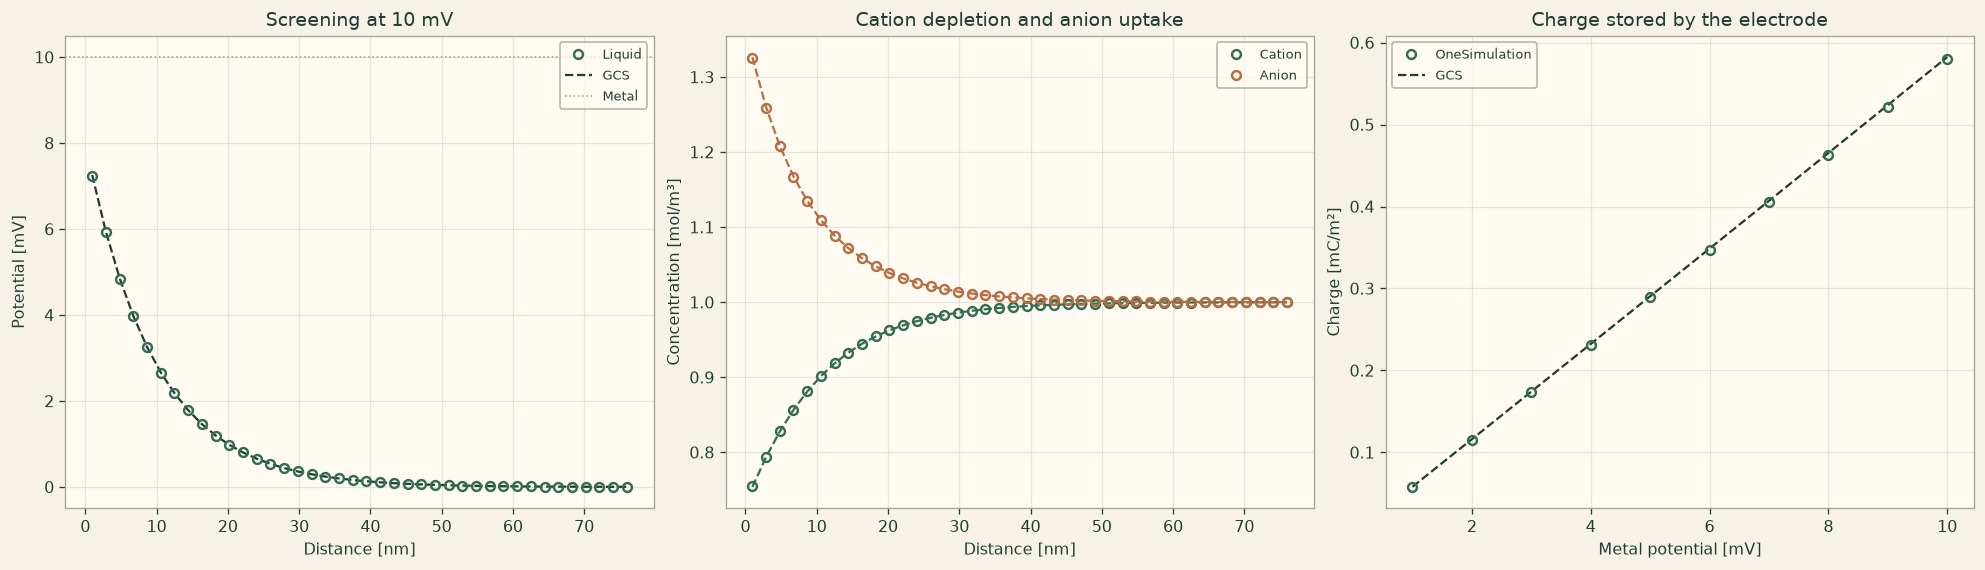
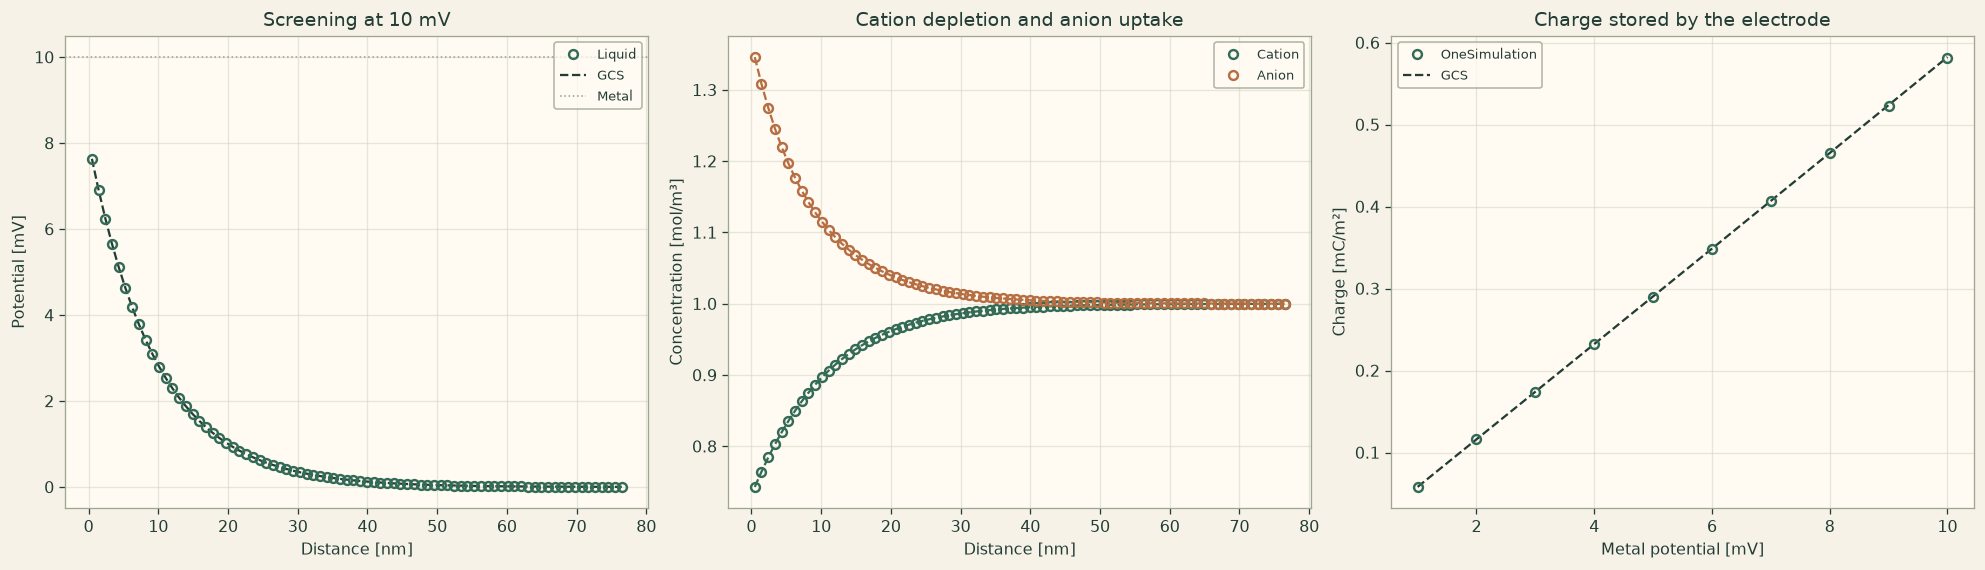
Publish the refined blocking-electrolyte comparison

diff --git a/examples/notebooks/diffuse_double_layer_stern.html b/examples/notebooks/diffuse_double_layer_stern.html
@@ -22,7 +22,7 @@
 <div class="layout">
 <details class="menu"><summary>Menu</summary><nav class="side" aria-label="Documentation"><a class="" href="../../index.html">Overview</a><a class="" href="../../quickstart.html">Quickstart</a><p class="group">Examples</p><a class="" href="../../examples/index.html">Example library</a><a class="" href="../../examples/method-swap.html">One model, five discretizations</a><a class="" href="../../examples/cantilever.html">A 3D cantilever</a><a class="" href="../../examples/custom-equation.html">Your own equation</a><p class="group">Guide</p><p class="part">Start here</p><a class="" href="../../guide/how-to-use-this-guide.html"><span class="num"></span> How to use this guide</a><p class="part">Part I · From model to notebook</p><a class="" href="../../guide/1-set-up-the-notebook.html"><span class="num">1</span> Set up the notebook</a><a class="" href="../../guide/2-transient-radiation-and-vibration.html"><span class="num">2</span> Transient radiation and vibration</a><a class="" href="../../guide/3-three-spatial-studies.html"><span class="num">3</span> Three spatial studies</a><a class="" href="../../guide/4-read-visualize-and-export-results.html"><span class="num">4</span> Read, visualize and export results</a><p class="part">Part II · Physics model selection</p><a class="" href="../../guide/5-build-a-first-case-in-each-physics-package/index.html"><span class="num">5</span> Build a first case in each physics package</a><a class="" href="../../guide/6-worked-physics-and-service-recipes/index.html"><span class="num">6</span> Worked physics and service recipes</a><p class="part">Part III · Select and combine numerical methods</p><a class="" href="../../guide/7-numerical-configuration-and-spatial-operators.html"><span class="num">7</span> Numerical configuration and spatial operators</a><a class="" href="../../guide/8-solvers-time-integration-and-coupled-fields.html"><span class="num">8</span> Solvers, time integration and coupled fields</a><a class="" href="../../guide/9-worked-numerical-comparisons/index.html"><span class="num">9</span> Worked numerical comparisons</a><a class="" href="../../guide/10-executable-numerical-recipes/index.html"><span class="num">10</span> Executable numerical recipes</a><a class="" href="../../guide/11-define-and-solve-your-own-equation.html"><span class="num">11</span> Define and solve your own equation</a><a class="" href="../../guide/12-diagnose-a-notebook-result.html"><span class="num">12</span> Diagnose a notebook result</a><a class="" href="../../guide/13-coverage-and-navigation-by-symbol/index.html"><span class="num">13</span> Coverage and navigation by symbol</a><p class="part">API reference</p><a class="" href="../../reference/a-physics-api-reference/index.html"><span class="num">A</span> Physics API reference</a><a class="" href="../../reference/b-numerical-api-reference/index.html"><span class="num">B</span> Numerical API reference</a><a class="" href="../../reference/c-exposed-operator-and-service-namespaces/index.html"><span class="num">C</span> Exposed operator and service namespaces</a><p class="group">Teaching</p><a class="" href="../../teaching/index.html">For instructors</a><a class="" href="../../teaching/course.html">A 14-week lab course</a><a class="" href="../../teaching/exercises.html">Exercise sheets</a><p class="group">Trust and terms</p><a class="" href="../../verification.html">Verification</a><a class="" href="../../plans.html">Plans and licence</a></nav></details>
 <div class="side-wrap"><nav class="side" aria-label="Documentation"><a class="" href="../../index.html">Overview</a><a class="" href="../../quickstart.html">Quickstart</a><p class="group">Examples</p><a class="" href="../../examples/index.html">Example library</a><a class="" href="../../examples/method-swap.html">One model, five discretizations</a><a class="" href="../../examples/cantilever.html">A 3D cantilever</a><a class="" href="../../examples/custom-equation.html">Your own equation</a><p class="group">Guide</p><p class="part">Start here</p><a class="" href="../../guide/how-to-use-this-guide.html"><span class="num"></span> How to use this guide</a><p class="part">Part I · From model to notebook</p><a class="" href="../../guide/1-set-up-the-notebook.html"><span class="num">1</span> Set up the notebook</a><a class="" href="../../guide/2-transient-radiation-and-vibration.html"><span class="num">2</span> Transient radiation and vibration</a><a class="" href="../../guide/3-three-spatial-studies.html"><span class="num">3</span> Three spatial studies</a><a class="" href="../../guide/4-read-visualize-and-export-results.html"><span class="num">4</span> Read, visualize and export results</a><p class="part">Part II · Physics model selection</p><a class="" href="../../guide/5-build-a-first-case-in-each-physics-package/index.html"><span class="num">5</span> Build a first case in each physics package</a><a class="" href="../../guide/6-worked-physics-and-service-recipes/index.html"><span class="num">6</span> Worked physics and service recipes</a><p class="part">Part III · Select and combine numerical methods</p><a class="" href="../../guide/7-numerical-configuration-and-spatial-operators.html"><span class="num">7</span> Numerical configuration and spatial operators</a><a class="" href="../../guide/8-solvers-time-integration-and-coupled-fields.html"><span class="num">8</span> Solvers, time integration and coupled fields</a><a class="" href="../../guide/9-worked-numerical-comparisons/index.html"><span class="num">9</span> Worked numerical comparisons</a><a class="" href="../../guide/10-executable-numerical-recipes/index.html"><span class="num">10</span> Executable numerical recipes</a><a class="" href="../../guide/11-define-and-solve-your-own-equation.html"><span class="num">11</span> Define and solve your own equation</a><a class="" href="../../guide/12-diagnose-a-notebook-result.html"><span class="num">12</span> Diagnose a notebook result</a><a class="" href="../../guide/13-coverage-and-navigation-by-symbol/index.html"><span class="num">13</span> Coverage and navigation by symbol</a><p class="part">API reference</p><a class="" href="../../reference/a-physics-api-reference/index.html"><span class="num">A</span> Physics API reference</a><a class="" href="../../reference/b-numerical-api-reference/index.html"><span class="num">B</span> Numerical API reference</a><a class="" href="../../reference/c-exposed-operator-and-service-namespaces/index.html"><span class="num">C</span> Exposed operator and service namespaces</a><p class="group">Teaching</p><a class="" href="../../teaching/index.html">For instructors</a><a class="" href="../../teaching/course.html">A 14-week lab course</a><a class="" href="../../teaching/exercises.html">Exercise sheets</a><p class="group">Trust and terms</p><a class="" href="../../verification.html">Verification</a><a class="" href="../../plans.html">Plans and licence</a></nav></div>
-<main id="content"><p class="crumbs"><a href="../../index.html">Docs</a> › <a href="../../examples/index.html">Examples</a> › Charge stored by a blocking electrode</p><p class="eyebrow">Electrochemistry · 1D</p><h1>Charge stored by a blocking electrode</h1><p class="lead">A charged metal surface attracts anions from a dilute electrolyte. Follow the nanometre-scale concentration profiles and the surface charge as the bias increases from 1 to 10 mV.</p><div class="chips"><span>Poisson–Nernst–Planck</span><span>Compact and diffuse layers</span><span>Voltage sweep</span><span>Gouy–Chapman–Stern check</span></div><p class="note"><strong>Run locally with OneSimulation.</strong> The example downloads are free. Running them requires an activated runtime. Runtime Alpha 0.2.1a8 · CPython 3.13 on macOS (Apple Silicon), Ubuntu 22.04 (x86-64), and Windows x64. <a href="../../quickstart.html#need">Installation and activation</a> · <a href="../../plans.html">View pilot plans</a>. <a href="../../verification.html#scope">Scope of the reference checks</a>.</p><div class="button-row"><a class="button" href="../../notebooks/diffuse_double_layer_stern.ipynb" download>Download the notebook (.ipynb)</a><a class="button light" href="../../notebooks/diffuse_double_layer_stern.py" download>Download the script (.py)</a></div><figure><a href="../../figures/library/diffuse_double_layer_stern.png" aria-label="Open result plot for Charge stored by a blocking electrode at full size" style="display:inline-block;max-width:100%;cursor:zoom-in"><img loading="lazy" src="../../figures/library/diffuse_double_layer_stern.png" alt="Charge stored by a blocking electrode"></a><figcaption>Charge stored by a blocking electrode. Run the notebook to produce its own figures.</figcaption></figure><h2 id="what">What it computes</h2><p>OneSimulation evolves the two ion species on a line with Scharfetter–Gummel finite volumes and a compact Stern layer at each blocking electrode. Opposite metal potentials set the grounded bulk plane at the midpoint; an inventory adjustment sets its salt concentration.</p><h2 id="checks">What it checks</h2><p>Across ten applied voltages the surface charge differs from Gouy–Chapman–Stern theory by at most 0.41 %. At 10 mV the model stores 0.5799 mC/m². The midpoint concentration is within 0.000003 mol/m³ of the 1 mol/m³ bulk target.</p><h2 id="notebook">The notebook</h2><p class="muted">The complete notebook, cell by cell. Run it to produce the figures and the comparison printout.</p><div class="notebook"><div class="nb-md"><p>A positively biased metal repels cations and attracts anions. How much charge accumulates when its potential rises from 1 to 10 mV? The one-dimensional Poisson–Nernst–Planck model includes diffusion, electrical migration and a charge-free compact layer at the electrode. Both ions are blocked at the metal.</p>
+<main id="content"><p class="crumbs"><a href="../../index.html">Docs</a> › <a href="../../examples/index.html">Examples</a> › Charge stored by a blocking electrode</p><p class="eyebrow">Electrochemistry · 1D</p><h1>Charge stored by a blocking electrode</h1><p class="lead">A charged metal surface attracts anions from a dilute electrolyte. Follow the nanometre-scale concentration profiles and the surface charge as the bias increases from 1 to 10 mV.</p><div class="chips"><span>Poisson–Nernst–Planck</span><span>Compact and diffuse layers</span><span>Voltage sweep</span><span>Gouy–Chapman–Stern check</span></div><p class="note"><strong>Run locally with OneSimulation.</strong> The example downloads are free. Running them requires an activated runtime. Runtime Alpha 0.2.1a8 · CPython 3.13 on macOS (Apple Silicon), Ubuntu 22.04 (x86-64), and Windows x64. <a href="../../quickstart.html#need">Installation and activation</a> · <a href="../../plans.html">View pilot plans</a>. <a href="../../verification.html#scope">Scope of the reference checks</a>.</p><div class="button-row"><a class="button" href="../../notebooks/diffuse_double_layer_stern.ipynb" download>Download the notebook (.ipynb)</a><a class="button light" href="../../notebooks/diffuse_double_layer_stern.py" download>Download the script (.py)</a></div><figure><a href="../../figures/library/diffuse_double_layer_stern.png" aria-label="Open result plot for Charge stored by a blocking electrode at full size" style="display:inline-block;max-width:100%;cursor:zoom-in"><img loading="lazy" src="../../figures/library/diffuse_double_layer_stern.png" alt="Charge stored by a blocking electrode"></a><figcaption>Charge stored by a blocking electrode. Run the notebook to produce its own figures.</figcaption></figure><h2 id="what">What it computes</h2><p>OneSimulation evolves the two ion species on a line with Scharfetter–Gummel finite volumes and a compact Stern layer at each blocking electrode. Opposite metal potentials set the grounded bulk plane at the midpoint; an inventory adjustment sets its salt concentration.</p><h2 id="checks">What it checks</h2><p>Refining from 80 to 160 finite volumes changes the 10 mV charge from 0.57993 to 0.58172 mC/m². Over ten biases the fine-grid wall charge agrees with Gouy–Chapman–Stern theory within 0.11 %. The midpoint salt concentration stays within 0.000003 mol/m³ of the bulk target.</p><h2 id="notebook">The notebook</h2><p class="muted">The complete notebook, cell by cell. Run it to produce the figures and the comparison printout.</p><div class="notebook"><div class="nb-md"><p>A positively biased metal repels cations and attracts anions. How much charge accumulates when its potential rises from 1 to 10 mV? The one-dimensional Poisson–Nernst–Planck model includes diffusion, electrical migration and a charge-free compact layer at the electrode. Both ions are blocked at the metal.</p>
 <p>The solvent is water at 25 °C. The bulk contains 1 mol/m³ of each monovalent ion (1 mM). The compact layer is 0.3 nm thick, with a relative permittivity of 10. Its potential drop is <span class="math">\(\sigma/C_S\)</span>, where <span class="math">\(C_S=\epsilon_S/d_S\)</span>.</p></div><div class="nb-code"><pre class="code" data-lang="python"><code><span class="kn">import</span><span class="w"> </span><span class="nn">numpy</span><span class="w"> </span><span class="k">as</span><span class="w"> </span><span class="nn">np</span>
 <span class="kn">from</span><span class="w"> </span><span class="nn">onesim.cad.d1</span><span class="w"> </span><span class="kn">import</span> <span class="n">Line</span>
 <span class="kn">from</span><span class="w"> </span><span class="nn">onesim.meshing</span><span class="w"> </span><span class="kn">import</span> <span class="n">cartesian</span>
@@ -49,14 +49,13 @@
 <span class="n">thermal</span> <span class="o">=</span> <span class="n">gas_constant</span> <span class="o">*</span> <span class="n">temperature</span> <span class="o">/</span> <span class="n">faraday</span>
 <span class="n">debye</span> <span class="o">=</span> <span class="n">np</span><span class="o">.</span><span class="n">sqrt</span><span class="p">(</span><span class="n">epsilon</span> <span class="o">*</span> <span class="n">thermal</span> <span class="o">/</span> <span class="p">(</span><span class="mi">2</span> <span class="o">*</span> <span class="n">faraday</span> <span class="o">*</span> <span class="n">bulk</span><span class="p">))</span>
 <span class="n">stern</span> <span class="o">=</span> <span class="n">epsilon</span> <span class="o">/</span> <span class="n">capacitance</span>
-<span class="n">half_length</span><span class="p">,</span> <span class="n">cells</span> <span class="o">=</span> <span class="mi">8</span> <span class="o">*</span> <span class="n">debye</span><span class="p">,</span> <span class="mi">80</span>
+<span class="n">half_length</span> <span class="o">=</span> <span class="mi">8</span> <span class="o">*</span> <span class="n">debye</span>
 <span class="n">line</span> <span class="o">=</span> <span class="n">Line</span><span class="p">(</span><span class="n">start</span><span class="o">=</span><span class="p">(</span><span class="mi">0</span><span class="p">,</span> <span class="mi">0</span><span class="p">,</span> <span class="mi">0</span><span class="p">),</span> <span class="n">end</span><span class="o">=</span><span class="p">(</span><span class="mi">2</span> <span class="o">*</span> <span class="n">half_length</span><span class="p">,</span> <span class="mi">0</span><span class="p">,</span> <span class="mi">0</span><span class="p">))</span>
-<span class="n">mesh</span> <span class="o">=</span> <span class="n">cartesian</span><span class="p">(</span><span class="n">shape</span><span class="o">=</span><span class="p">(</span><span class="n">cells</span><span class="p">,),</span> <span class="n">extents</span><span class="o">=</span><span class="p">(</span><span class="mi">2</span> <span class="o">*</span> <span class="n">half_length</span><span class="p">,),</span> <span class="n">geometry</span><span class="o">=</span><span class="n">line</span><span class="p">,</span> <span class="n">periodic</span><span class="o">=</span><span class="kc">False</span><span class="p">)</span><span class="o">.</span><span class="n">build</span><span class="p">()</span>
 <span class="n">numerics</span> <span class="o">=</span> <span class="n">Numerics</span><span class="p">(</span>
     <span class="n">spatial</span><span class="o">=</span><span class="n">ScharfetterGummelFiniteVolume</span><span class="p">(),</span>
     <span class="n">time_integrator</span><span class="o">=</span><span class="n">BDF</span><span class="p">(</span><span class="n">order</span><span class="o">=</span><span class="mi">2</span><span class="p">,</span> <span class="n">startup</span><span class="o">=</span><span class="n">BackwardEuler</span><span class="p">()),</span>
     <span class="n">nonlinear_solver</span><span class="o">=</span><span class="n">Newton</span><span class="p">(</span>
-        <span class="n">linear_solver</span><span class="o">=</span><span class="n">GMRES</span><span class="p">(</span><span class="n">relative_tolerance</span><span class="o">=</span><span class="mf">1e-7</span><span class="p">,</span> <span class="n">restart</span><span class="o">=</span><span class="mi">120</span><span class="p">,</span> <span class="n">maximum_iterations</span><span class="o">=</span><span class="mi">400</span><span class="p">),</span>
+        <span class="n">linear_solver</span><span class="o">=</span><span class="n">GMRES</span><span class="p">(</span><span class="n">relative_tolerance</span><span class="o">=</span><span class="mf">1e-7</span><span class="p">,</span> <span class="n">restart</span><span class="o">=</span><span class="mi">220</span><span class="p">,</span> <span class="n">maximum_iterations</span><span class="o">=</span><span class="mi">650</span><span class="p">),</span>
         <span class="n">absolute_tolerance</span><span class="o">=</span><span class="mf">1e-8</span><span class="p">,</span>
     <span class="p">),</span>
 <span class="p">)</span></code></pre></div><div class="nb-md"><h4>Establish the bulk and sweep the metal potential</h4>
@@ -64,9 +63,8 @@
 <p>Each run starts from a uniform electrolyte. The zero-flux blocking walls conserve each ion separately. The compact-layer Robin condition uses the effective thickness <span class="math">\(\epsilon/C_S\)</span> in the solvent permittivity convention.</p></div><div class="nb-code"><pre class="code" data-lang="python"><code><span class="n">bias</span> <span class="o">=</span> <span class="n">np</span><span class="o">.</span><span class="n">arange</span><span class="p">(</span><span class="mi">1</span><span class="p">,</span> <span class="mi">11</span><span class="p">)</span> <span class="o">*</span> <span class="mf">1e-3</span>
 <span class="n">species</span> <span class="o">=</span> <span class="p">(</span><span class="n">TransportSpecies</span><span class="p">(</span><span class="s2">&quot;cation&quot;</span><span class="p">,</span> <span class="n">diffusivity</span><span class="p">),</span> <span class="n">TransportSpecies</span><span class="p">(</span><span class="s2">&quot;anion&quot;</span><span class="p">,</span> <span class="n">diffusivity</span><span class="p">))</span>
 <span class="n">tau</span> <span class="o">=</span> <span class="n">debye</span><span class="o">**</span><span class="mi">2</span> <span class="o">/</span> <span class="n">diffusivity</span>
-<span class="n">charge</span><span class="p">,</span> <span class="n">charge_from_ions</span><span class="p">,</span> <span class="n">centre</span><span class="p">,</span> <span class="n">drift</span> <span class="o">=</span> <span class="p">[],</span> <span class="p">[],</span> <span class="p">[],</span> <span class="p">[]</span>
-<span class="n">half</span> <span class="o">=</span> <span class="n">cells</span> <span class="o">//</span> <span class="mi">2</span>
-<span class="k">for</span> <span class="n">voltage</span> <span class="ow">in</span> <span class="n">bias</span><span class="p">:</span>
+<span class="k">def</span><span class="w"> </span><span class="nf">equilibrium</span><span class="p">(</span><span class="n">voltage</span><span class="p">,</span> <span class="n">mesh</span><span class="p">,</span> <span class="n">cells</span><span class="p">):</span>
+    <span class="n">half</span> <span class="o">=</span> <span class="n">cells</span> <span class="o">//</span> <span class="mi">2</span>
     <span class="n">walls</span> <span class="o">=</span> <span class="p">(</span>
         <span class="n">SternLayer</span><span class="p">(</span><span class="n">potential</span><span class="o">=</span><span class="n">voltage</span><span class="p">,</span> <span class="n">thickness</span><span class="o">=</span><span class="n">stern</span><span class="p">),</span>
         <span class="n">SternLayer</span><span class="p">(</span><span class="n">potential</span><span class="o">=-</span><span class="n">voltage</span><span class="p">,</span> <span class="n">thickness</span><span class="o">=</span><span class="n">stern</span><span class="p">),</span>
@@ -97,10 +95,28 @@
     <span class="n">phi</span> <span class="o">=</span> <span class="n">np</span><span class="o">.</span><span class="n">asarray</span><span class="p">(</span><span class="n">field</span><span class="o">.</span><span class="n">values</span><span class="p">)</span>
     <span class="n">x</span> <span class="o">=</span> <span class="n">np</span><span class="o">.</span><span class="n">asarray</span><span class="p">(</span><span class="n">field</span><span class="o">.</span><span class="n">space</span><span class="o">.</span><span class="n">dof_coordinates</span><span class="p">)[:</span><span class="n">half</span><span class="p">,</span> <span class="mi">0</span><span class="p">]</span>
     <span class="n">width</span> <span class="o">=</span> <span class="mi">2</span> <span class="o">*</span> <span class="n">half_length</span> <span class="o">/</span> <span class="n">cells</span>
-    <span class="n">charge</span><span class="o">.</span><span class="n">append</span><span class="p">(</span><span class="n">epsilon</span> <span class="o">*</span> <span class="p">(</span><span class="n">voltage</span> <span class="o">-</span> <span class="n">phi</span><span class="p">[</span><span class="mi">0</span><span class="p">])</span> <span class="o">/</span> <span class="p">(</span><span class="n">stern</span> <span class="o">+</span> <span class="n">width</span> <span class="o">/</span> <span class="mi">2</span><span class="p">))</span>
-    <span class="n">charge_from_ions</span><span class="o">.</span><span class="n">append</span><span class="p">(</span><span class="o">-</span><span class="n">faraday</span> <span class="o">*</span> <span class="n">width</span> <span class="o">*</span> <span class="n">np</span><span class="o">.</span><span class="n">sum</span><span class="p">(</span><span class="n">cp</span><span class="p">[:</span><span class="n">half</span><span class="p">]</span> <span class="o">-</span> <span class="n">cm</span><span class="p">[:</span><span class="n">half</span><span class="p">]))</span>
+    <span class="n">charge</span> <span class="o">=</span> <span class="n">epsilon</span> <span class="o">*</span> <span class="p">(</span><span class="n">voltage</span> <span class="o">-</span> <span class="n">phi</span><span class="p">[</span><span class="mi">0</span><span class="p">])</span> <span class="o">/</span> <span class="p">(</span><span class="n">stern</span> <span class="o">+</span> <span class="n">width</span> <span class="o">/</span> <span class="mi">2</span><span class="p">)</span>
+    <span class="n">ionic_charge</span> <span class="o">=</span> <span class="o">-</span><span class="n">faraday</span> <span class="o">*</span> <span class="n">width</span> <span class="o">*</span> <span class="n">np</span><span class="o">.</span><span class="n">sum</span><span class="p">(</span><span class="n">cp</span><span class="p">[:</span><span class="n">half</span><span class="p">]</span> <span class="o">-</span> <span class="n">cm</span><span class="p">[:</span><span class="n">half</span><span class="p">])</span>
+    <span class="n">residual</span> <span class="o">=</span> <span class="n">np</span><span class="o">.</span><span class="n">max</span><span class="p">(</span><span class="n">np</span><span class="o">.</span><span class="n">abs</span><span class="p">(</span><span class="n">phi</span> <span class="o">-</span> <span class="n">np</span><span class="o">.</span><span class="n">asarray</span><span class="p">(</span><span class="n">field</span><span class="o">.</span><span class="n">at</span><span class="p">(</span><span class="mi">224</span> <span class="o">*</span> <span class="n">tau</span><span class="p">)</span><span class="o">.</span><span class="n">values</span><span class="p">)))</span>
+    <span class="k">return</span> <span class="n">charge</span><span class="p">,</span> <span class="n">ionic_charge</span><span class="p">,</span> <span class="n">measured</span><span class="p">,</span> <span class="n">residual</span><span class="p">,</span> <span class="n">x</span><span class="p">,</span> <span class="n">phi</span><span class="p">,</span> <span class="n">cp</span><span class="p">,</span> <span class="n">cm</span>
+
+
+<span class="k">def</span><span class="w"> </span><span class="nf">line_mesh</span><span class="p">(</span><span class="n">cells</span><span class="p">):</span>
+    <span class="k">return</span> <span class="n">cartesian</span><span class="p">(</span><span class="n">shape</span><span class="o">=</span><span class="p">(</span><span class="n">cells</span><span class="p">,),</span> <span class="n">extents</span><span class="o">=</span><span class="p">(</span><span class="mi">2</span> <span class="o">*</span> <span class="n">half_length</span><span class="p">,),</span> <span class="n">geometry</span><span class="o">=</span><span class="n">line</span><span class="p">,</span> <span class="n">periodic</span><span class="o">=</span><span class="kc">False</span><span class="p">)</span><span class="o">.</span><span class="n">build</span><span class="p">()</span>
+
+
+<span class="n">coarse_cells</span><span class="p">,</span> <span class="n">fine_cells</span> <span class="o">=</span> <span class="mi">80</span><span class="p">,</span> <span class="mi">160</span>
+<span class="n">coarse_mesh</span><span class="p">,</span> <span class="n">mesh</span> <span class="o">=</span> <span class="n">line_mesh</span><span class="p">(</span><span class="n">coarse_cells</span><span class="p">),</span> <span class="n">line_mesh</span><span class="p">(</span><span class="n">fine_cells</span><span class="p">)</span>
+<span class="n">coarse_charge</span> <span class="o">=</span> <span class="n">equilibrium</span><span class="p">(</span><span class="n">bias</span><span class="p">[</span><span class="o">-</span><span class="mi">1</span><span class="p">],</span> <span class="n">coarse_mesh</span><span class="p">,</span> <span class="n">coarse_cells</span><span class="p">)[</span><span class="mi">0</span><span class="p">]</span>
+<span class="n">charge</span><span class="p">,</span> <span class="n">charge_from_ions</span><span class="p">,</span> <span class="n">centre</span><span class="p">,</span> <span class="n">drift</span> <span class="o">=</span> <span class="p">[],</span> <span class="p">[],</span> <span class="p">[],</span> <span class="p">[]</span>
+<span class="n">half</span> <span class="o">=</span> <span class="n">fine_cells</span> <span class="o">//</span> <span class="mi">2</span>
+<span class="k">for</span> <span class="n">voltage</span> <span class="ow">in</span> <span class="n">bias</span><span class="p">:</span>
+    <span class="n">sigma</span><span class="p">,</span> <span class="n">ions</span><span class="p">,</span> <span class="n">measured</span><span class="p">,</span> <span class="n">residual</span><span class="p">,</span> <span class="n">x</span><span class="p">,</span> <span class="n">phi</span><span class="p">,</span> <span class="n">cp</span><span class="p">,</span> <span class="n">cm</span> <span class="o">=</span> <span class="n">equilibrium</span><span class="p">(</span><span class="n">voltage</span><span class="p">,</span> <span class="n">mesh</span><span class="p">,</span> <span class="n">fine_cells</span><span class="p">)</span>
+    <span class="n">charge</span><span class="o">.</span><span class="n">append</span><span class="p">(</span><span class="n">sigma</span><span class="p">)</span>
+    <span class="n">charge_from_ions</span><span class="o">.</span><span class="n">append</span><span class="p">(</span><span class="n">ions</span><span class="p">)</span>
     <span class="n">centre</span><span class="o">.</span><span class="n">append</span><span class="p">(</span><span class="n">measured</span><span class="p">)</span>
-    <span class="n">drift</span><span class="o">.</span><span class="n">append</span><span class="p">(</span><span class="n">np</span><span class="o">.</span><span class="n">max</span><span class="p">(</span><span class="n">np</span><span class="o">.</span><span class="n">abs</span><span class="p">(</span><span class="n">phi</span> <span class="o">-</span> <span class="n">np</span><span class="o">.</span><span class="n">asarray</span><span class="p">(</span><span class="n">field</span><span class="o">.</span><span class="n">at</span><span class="p">(</span><span class="mi">224</span> <span class="o">*</span> <span class="n">tau</span><span class="p">)</span><span class="o">.</span><span class="n">values</span><span class="p">))))</span></code></pre></div><div class="nb-md"><h4>Compare against Gouy–Chapman–Stern theory</h4>
+    <span class="n">drift</span><span class="o">.</span><span class="n">append</span><span class="p">(</span><span class="n">residual</span><span class="p">)</span>
+<span class="nb">print</span><span class="p">(</span><span class="sa">f</span><span class="s2">&quot;Refinement from </span><span class="si">{</span><span class="n">coarse_cells</span><span class="si">}</span><span class="s2"> to </span><span class="si">{</span><span class="nb">len</span><span class="p">(</span><span class="n">phi</span><span class="p">)</span><span class="si">}</span><span class="s2"> potential cells: charge at 10 mV changes from </span><span class="si">{</span><span class="mi">1000</span><span class="w"> </span><span class="o">*</span><span class="w"> </span><span class="n">coarse_charge</span><span class="si">:</span><span class="s2">.5f</span><span class="si">}</span><span class="s2"> to </span><span class="si">{</span><span class="mi">1000</span><span class="w"> </span><span class="o">*</span><span class="w"> </span><span class="n">charge</span><span class="p">[</span><span class="o">-</span><span class="mi">1</span><span class="p">]</span><span class="si">:</span><span class="s2">.5f</span><span class="si">}</span><span class="s2"> mC/m²&quot;</span><span class="p">)</span></code></pre></div><div class="nb-md"><h4>Compare against Gouy–Chapman–Stern theory</h4>
 <p>In an unbounded reservoir the surface charge is <span class="math">\(\sigma=2\epsilon V_T\sinh(\phi_d/(2V_T))/\lambda_D\)</span> and <span class="math">\(V=\phi_d+\sigma/C_S\)</span>. Solving this scalar relation gives the independent reference. At low voltage the capacitance tends to <span class="math">\(\epsilon/(\lambda_D+\epsilon/C_S)\)</span>. Reference: O. Stern, <em>Zur Theorie der elektrolytischen Doppelschicht</em> (1924); A. J. Bard and L. R. Faulkner, <em>Electrochemical Methods</em>, 2nd ed. (2001).</p></div><div class="nb-code"><pre class="code" data-lang="python"><code><span class="n">gouy</span> <span class="o">=</span> <span class="k">lambda</span> <span class="n">v</span><span class="p">:</span> <span class="mi">2</span> <span class="o">*</span> <span class="n">epsilon</span> <span class="o">*</span> <span class="n">thermal</span> <span class="o">/</span> <span class="n">debye</span> <span class="o">*</span> <span class="n">np</span><span class="o">.</span><span class="n">sinh</span><span class="p">(</span><span class="n">v</span> <span class="o">/</span> <span class="p">(</span><span class="mi">2</span> <span class="o">*</span> <span class="n">thermal</span><span class="p">))</span>
 <span class="n">surface</span> <span class="o">=</span> <span class="n">np</span><span class="o">.</span><span class="n">array</span><span class="p">(</span>
     <span class="p">[</span><span class="n">brentq</span><span class="p">(</span><span class="k">lambda</span> <span class="n">v</span><span class="p">:</span> <span class="n">v</span> <span class="o">+</span> <span class="n">gouy</span><span class="p">(</span><span class="n">v</span><span class="p">)</span> <span class="o">/</span> <span class="n">capacitance</span> <span class="o">-</span> <span class="n">applied</span><span class="p">,</span> <span class="mi">0</span><span class="p">,</span> <span class="n">applied</span><span class="p">)</span> <span class="k">for</span> <span class="n">applied</span> <span class="ow">in</span> <span class="n">bias</span><span class="p">]</span>

diff --git a/notebooks/diffuse_double_layer_stern.py b/notebooks/diffuse_double_layer_stern.py
@@ -37,14 +37,13 @@ epsilon, capacitance = 78.5 * epsilon_0, 10 * epsilon_0 / 0.3e-9
 thermal = gas_constant * temperature / faraday
 debye = np.sqrt(epsilon * thermal / (2 * faraday * bulk))
 stern = epsilon / capacitance
-half_length, cells = 8 * debye, 80
+half_length = 8 * debye
 line = Line(start=(0, 0, 0), end=(2 * half_length, 0, 0))
-mesh = cartesian(shape=(cells,), extents=(2 * half_length,), geometry=line, periodic=False).build()
 numerics = Numerics(
     spatial=ScharfetterGummelFiniteVolume(),
     time_integrator=BDF(order=2, startup=BackwardEuler()),
     nonlinear_solver=Newton(
-        linear_solver=GMRES(relative_tolerance=1e-7, restart=120, maximum_iterations=400),
+        linear_solver=GMRES(relative_tolerance=1e-7, restart=220, maximum_iterations=650),
         absolute_tolerance=1e-8,
     ),
 )
@@ -64,9 +63,8 @@ numerics = Numerics(
 bias = np.arange(1, 11) * 1e-3
 species = (TransportSpecies("cation", diffusivity), TransportSpecies("anion", diffusivity))
 tau = debye**2 / diffusivity
-charge, charge_from_ions, centre, drift = [], [], [], []
-half = cells // 2
-for voltage in bias:
+def equilibrium(voltage, mesh, cells):
+    half = cells // 2
     walls = (
         SternLayer(potential=voltage, thickness=stern),
         SternLayer(potential=-voltage, thickness=stern),
@@ -97,10 +95,28 @@ for voltage in bias:
     phi = np.asarray(field.values)
     x = np.asarray(field.space.dof_coordinates)[:half, 0]
     width = 2 * half_length / cells
-    charge.append(epsilon * (voltage - phi[0]) / (stern + width / 2))
-    charge_from_ions.append(-faraday * width * np.sum(cp[:half] - cm[:half]))
+    charge = epsilon * (voltage - phi[0]) / (stern + width / 2)
+    ionic_charge = -faraday * width * np.sum(cp[:half] - cm[:half])
+    residual = np.max(np.abs(phi - np.asarray(field.at(224 * tau).values)))
+    return charge, ionic_charge, measured, residual, x, phi, cp, cm
+
+
+def line_mesh(cells):
+    return cartesian(shape=(cells,), extents=(2 * half_length,), geometry=line, periodic=False).build()
+
+
+coarse_cells, fine_cells = 80, 160
+coarse_mesh, mesh = line_mesh(coarse_cells), line_mesh(fine_cells)
+coarse_charge = equilibrium(bias[-1], coarse_mesh, coarse_cells)[0]
+charge, charge_from_ions, centre, drift = [], [], [], []
+half = fine_cells // 2
+for voltage in bias:
+    sigma, ions, measured, residual, x, phi, cp, cm = equilibrium(voltage, mesh, fine_cells)
+    charge.append(sigma)
+    charge_from_ions.append(ions)
     centre.append(measured)
-    drift.append(np.max(np.abs(phi - np.asarray(field.at(224 * tau).values))))
+    drift.append(residual)
+print(f"Refinement from {coarse_cells} to {len(phi)} potential cells: charge at 10 mV changes from {1000 * coarse_charge:.5f} to {1000 * charge[-1]:.5f} mC/m²")
 
 # ## Compare against Gouy–Chapman–Stern theory
 #
